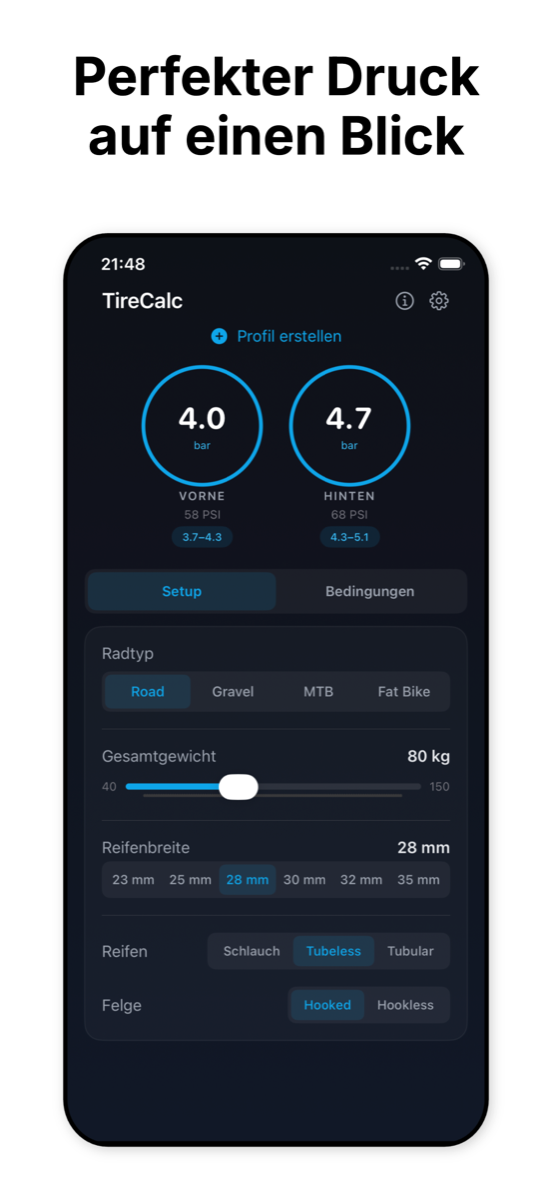
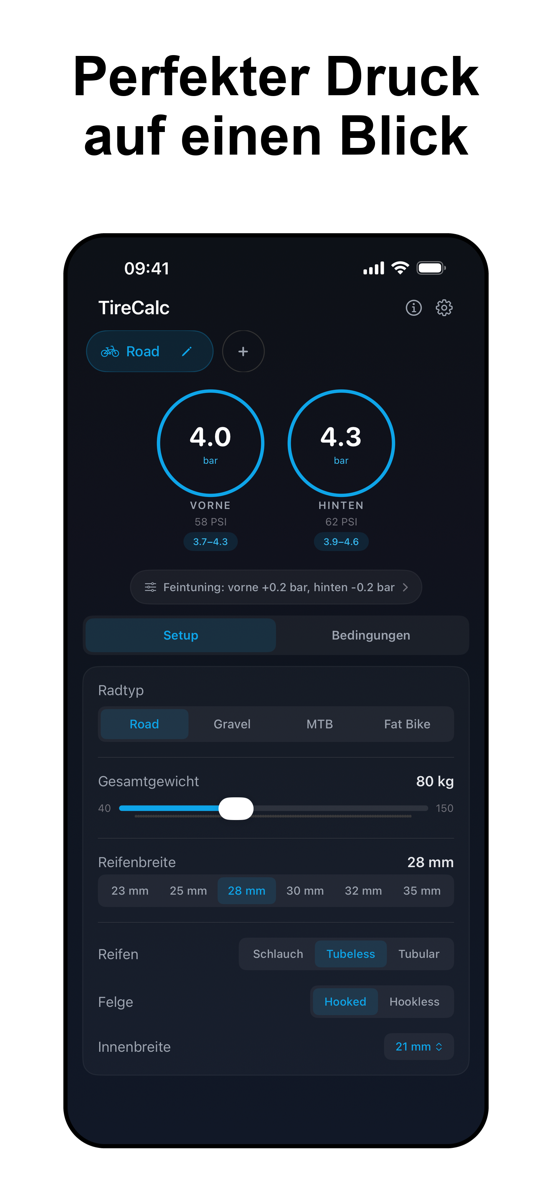
Update landing page to 1.2: new screenshots, widget/reminder/fine-tuning features

diff --git a/index.html b/index.html
@@ -357,6 +357,15 @@
         .feature-icon.temp {
             background: linear-gradient(135deg, rgba(249,115,22,0.12), rgba(234,88,12,0.08));
         }
+        .feature-icon.widget {
+            background: linear-gradient(135deg, rgba(168,85,247,0.12), rgba(147,51,234,0.08));
+        }
+        .feature-icon.reminder {
+            background: linear-gradient(135deg, rgba(244,63,94,0.12), rgba(225,29,72,0.08));
+        }
+        .feature-icon.tuning {
+            background: linear-gradient(135deg, rgba(20,184,166,0.12), rgba(13,148,136,0.08));
+        }
 
         .feature-card h3 {
             font-size: 19px;
@@ -589,16 +598,18 @@
         <p class="screenshots-label" lang="de">So sieht's aus</p>
         <p class="screenshots-label" lang="en">See it in action</p>
         <div class="screenshots-track" lang="de">
-            <img src="screenshots/de/01.png" alt="TireCalc Hauptbildschirm mit Druckberechnung" width="552" height="1200" loading="lazy">
-            <img src="screenshots/de/03.png" alt="Bedingungen: Untergrund, N&auml;sse und Temperaturkompensation" width="552" height="1200" loading="lazy">
-            <img src="screenshots/de/04.png" alt="Sicherheitswarnungen bei Hookless-Felgen" width="552" height="1200" loading="lazy">
-            <img src="screenshots/de/02.png" alt="Verschiedene Radtypen: Road, Gravel, MTB, Fat Bike" width="552" height="1200" loading="lazy">
+            <img src="screenshots/de/01.png" alt="TireCalc Hauptbildschirm mit Druckberechnung und Feintuning" width="552" height="1200" loading="lazy">
+            <img src="screenshots/de/02.png" alt="Widget mit Reifendruck am Home- und Sperrbildschirm" width="552" height="1200" loading="lazy">
+            <img src="screenshots/de/03.png" alt="Druckcheck-Erinnerung in den Einstellungen" width="552" height="1200" loading="lazy">
+            <img src="screenshots/de/04.png" alt="Bedingungen: Untergrund, N&auml;sse und Temperaturkompensation" width="552" height="1200" loading="lazy">
+            <img src="screenshots/de/05.png" alt="Sicherheitswarnungen bei Hookless-Felgen" width="552" height="1200" loading="lazy">
         </div>
         <div class="screenshots-track" lang="en">
-            <img src="screenshots/en/01.png" alt="TireCalc main screen with pressure calculation" width="552" height="1200" loading="lazy">
-            <img src="screenshots/en/03.png" alt="Conditions: surface, wet and temperature compensation" width="552" height="1200" loading="lazy">
-            <img src="screenshots/en/04.png" alt="Safety warnings for hookless rims" width="552" height="1200" loading="lazy">
-            <img src="screenshots/en/02.png" alt="Different bike types: Road, Gravel, MTB, Fat Bike" width="552" height="1200" loading="lazy">
+            <img src="screenshots/en/01.png" alt="TireCalc main screen with pressure calculation and fine-tuning" width="552" height="1200" loading="lazy">
+            <img src="screenshots/en/02.png" alt="Widget with tire pressure on the Home and Lock Screen" width="552" height="1200" loading="lazy">
+            <img src="screenshots/en/03.png" alt="Pressure check reminder in settings" width="552" height="1200" loading="lazy">
+            <img src="screenshots/en/04.png" alt="Conditions: surface, wet and temperature compensation" width="552" height="1200" loading="lazy">
+            <img src="screenshots/en/05.png" alt="Safety warnings for hookless rims" width="552" height="1200" loading="lazy">
         </div>
     </section>
 
@@ -650,6 +661,45 @@
                         <p>Calculate the correct inflation pressure based on pump and ride temperature. Physically accurate using the ideal gas law.</p>
                     </div>
                 </div>
+
+                <!-- Card 4: Widget -->
+                <div class="feature-card" style="transition-delay: 0.3s;">
+                    <div class="feature-icon widget" aria-hidden="true">&#128241;</div>
+                    <div lang="de">
+                        <h3>Widget</h3>
+                        <p>Dein empfohlener Druck vorne und hinten direkt am Home- und Sperrbildschirm &mdash; ohne die App zu &ouml;ffnen.</p>
+                    </div>
+                    <div lang="en">
+                        <h3>Widget</h3>
+                        <p>Your recommended front and rear pressure right on the Home and Lock Screen &mdash; without opening the app.</p>
+                    </div>
+                </div>
+
+                <!-- Card 5: Reminder -->
+                <div class="feature-card" style="transition-delay: 0.4s;">
+                    <div class="feature-icon reminder" aria-hidden="true">&#128276;</div>
+                    <div lang="de">
+                        <h3>Druckcheck-Erinnerung</h3>
+                        <p>Lass dich w&ouml;chentlich, alle zwei Wochen oder monatlich ans Reifenpr&uuml;fen erinnern &mdash; mit saisonalen Tipps.</p>
+                    </div>
+                    <div lang="en">
+                        <h3>Pressure Check Reminder</h3>
+                        <p>Get reminded weekly, every two weeks, or monthly to check your tires &mdash; with seasonal tips.</p>
+                    </div>
+                </div>
+
+                <!-- Card 6: Fine-tuning -->
+                <div class="feature-card" style="transition-delay: 0.5s;">
+                    <div class="feature-icon tuning" aria-hidden="true">&#127898;</div>
+                    <div lang="de">
+                        <h3>Feintuning pro Profil</h3>
+                        <p>F&uuml;hlt sich der Druck zu hart oder zu weich an? Passe ihn vorne und hinten getrennt an &mdash; pro Rad gespeichert.</p>
+                    </div>
+                    <div lang="en">
+                        <h3>Per-Profile Fine-Tuning</h3>
+                        <p>Does the pressure feel too firm or too soft? Adjust front and rear separately &mdash; saved per bike.</p>
+                    </div>
+                </div>
             </div>
         </div>
     </section>
@@ -660,8 +710,8 @@
             <span class="pro-label">Pro</span>
             <h2 lang="de">Alle Features. 7&nbsp;Tage kostenlos testen.</h2>
             <h2 lang="en">All features. 7&nbsp;days free trial.</h2>
-            <p class="pro-sub" lang="de">Alle Radtypen, Temperaturkompensation, unbegrenzte Profile &amp; mehr &mdash; danach nur 2,99&nbsp;&euro;/Jahr</p>
-            <p class="pro-sub" lang="en">All bike types, temperature compensation, unlimited profiles &amp; more &mdash; then just &euro;2.99/year</p>
+            <p class="pro-sub" lang="de">Alle Radtypen, Widget, Feintuning, Temperaturkompensation, unbegrenzte Profile &amp; mehr &mdash; danach nur 2,99&nbsp;&euro;/Jahr</p>
+            <p class="pro-sub" lang="en">All bike types, widget, fine-tuning, temperature compensation, unlimited profiles &amp; more &mdash; then just &euro;2.99/year</p>
         </div>
     </section>
 
